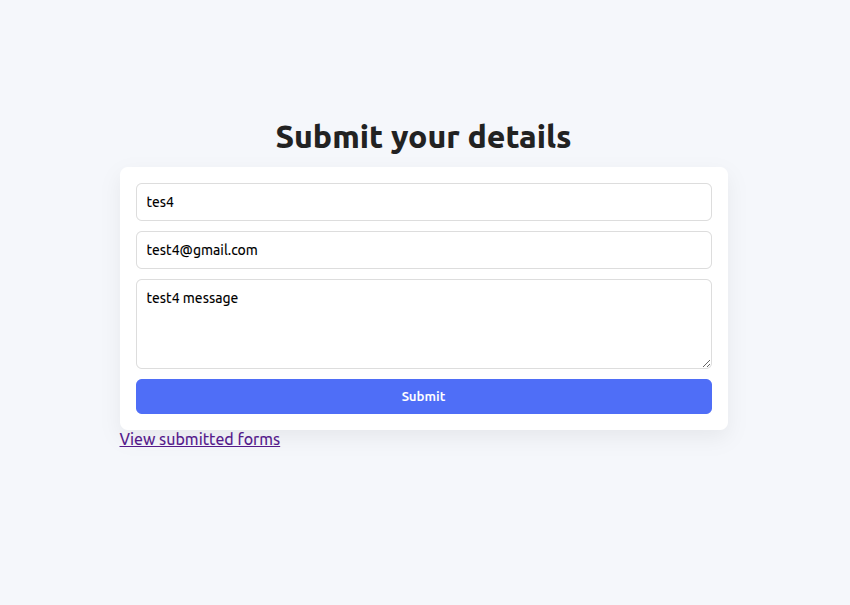
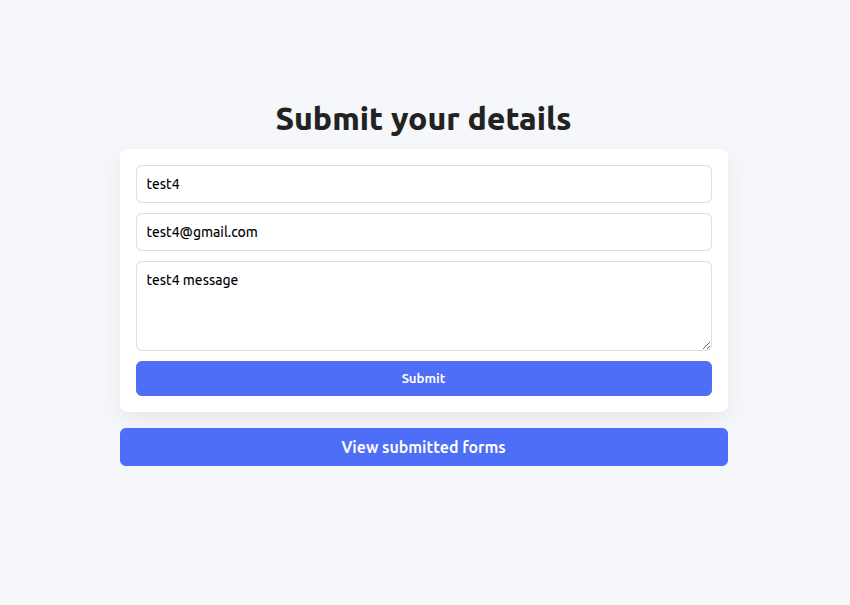
Added button css and go back to home button

Changed region(s): [[0.1224, 0.595, 0.8565, 0.7736], [0.1529, 0.2975, 0.8259, 0.5058], [0.3059, 0.1785, 0.6729, 0.2678]]

diff --git a/week2/style.css b/week2/style.css
@@ -83,3 +83,21 @@ li {
   max-width: 640px;
   padding: 16px;
 }
+
+a{
+  display: block;
+  text-align: center;
+  margin-top: 16px;
+  text-decoration: none;
+  font-weight: 500;
+  padding: 10px;
+  background: #4f6ef7; 
+  color: #fff;
+  border: none;
+  border-radius: 6px;
+  font-weight: 500;
+}
+
+a:hover {
+  text-decoration: underline;
+}

diff --git a/week2/feedback.html b/week2/feedback.html
@@ -10,6 +10,7 @@
     <div class = "container">
         <h1>Submitted Feedback</h1>
         <div id="feedbackList"></div>
+        <a href="index.html" class="back-btn">← Back to Feedback Form</a>
 
         <script>
             function displayFeedback() {
